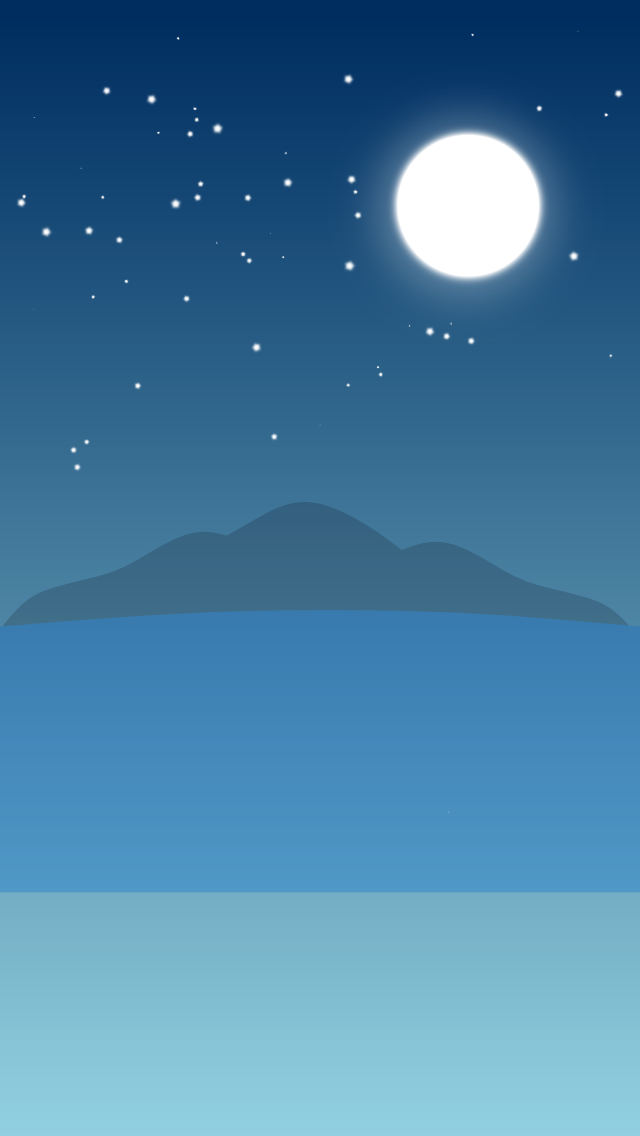
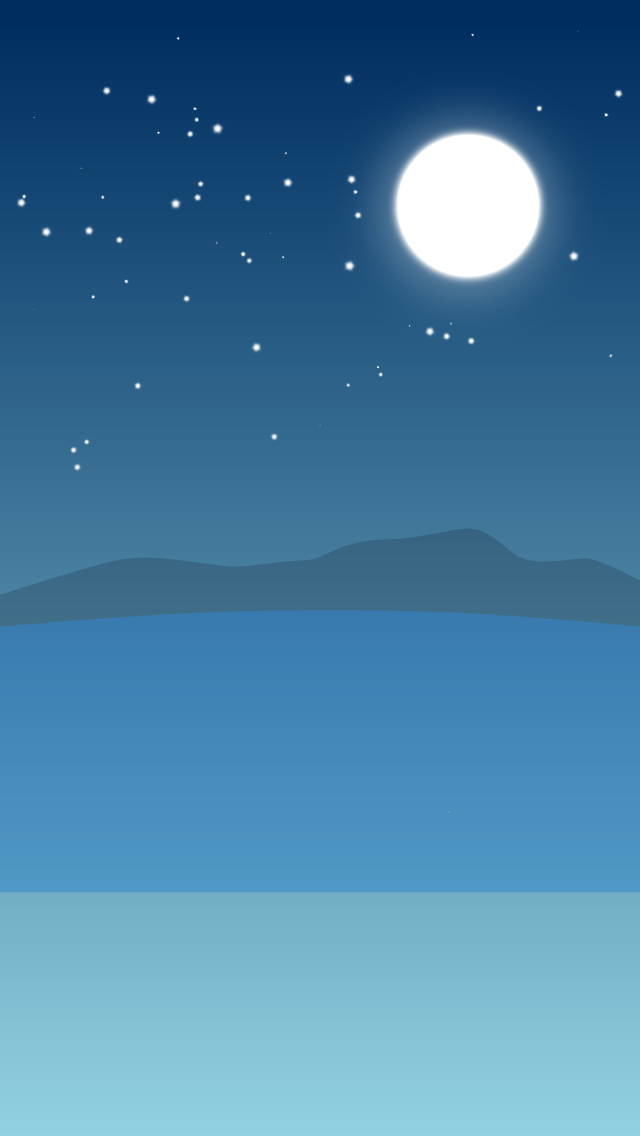
背景の追加

diff --git a/Classes/BackGround.cpp b/Classes/BackGround.cpp
@@ -136,21 +136,30 @@ BackGround::BackGround(){
     
     
     //最初のスプライトを入れる
-    auto village1 = Sprite::create("village_1.png");
+    auto village1 = Sprite::create("forest_1.png");
+
+    //stage2
+    //auto village1 = Sprite::create("village_1.png");
     
     village1->setPosition(Vec2(village1->getContentSize().width/2,village1->getContentSize().height/2));
     //village1->setOpacity(150);
     
     backGrounds->at(0)->addChild(village1);
     
-    auto village2 = Sprite::create("village_2.png");
+    
+    auto village2 = Sprite::create("forest_2.png");
+
+    //stage2
+    //auto village2 = Sprite::create("village_2.png");
     
     village2->setPosition(Vec2(village2->getContentSize().width/2,village2->getContentSize().height/2));
     //village2->setOpacity(150);
     
     backGrounds->at(1)->addChild(village2);
     
-    auto village3 = Sprite::create("village_3.png");
+    auto village3 = Sprite::create("forest_3.png");
+    //stage2
+    //auto village3 = Sprite::create("village_3.png");
     
     village3->setPosition(Vec2(village3->getContentSize().width/2,village3->getContentSize().height/2));
     //village3->setOpacity(150);
